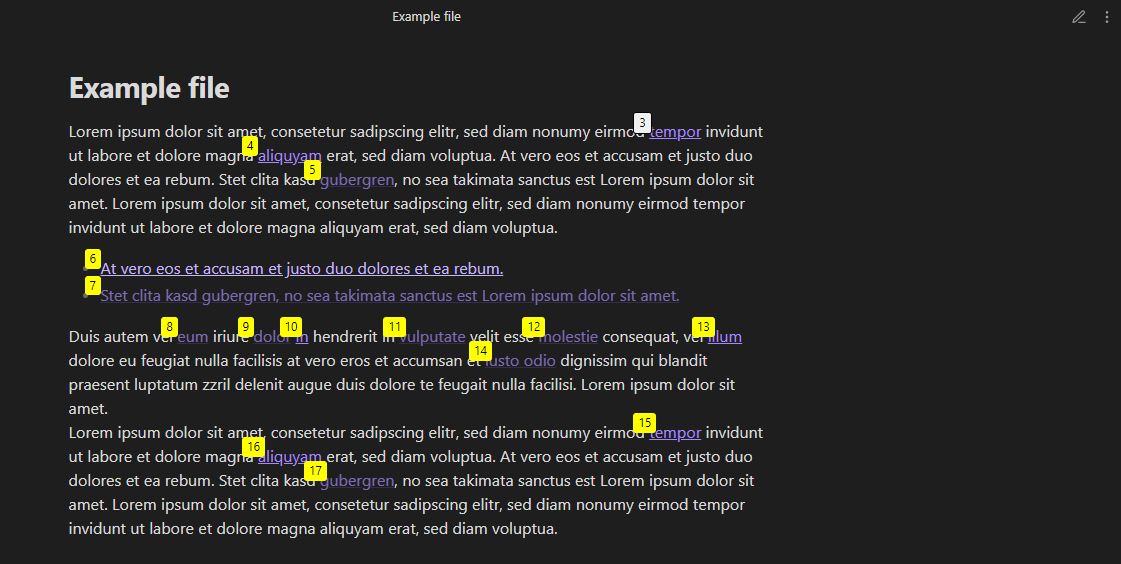
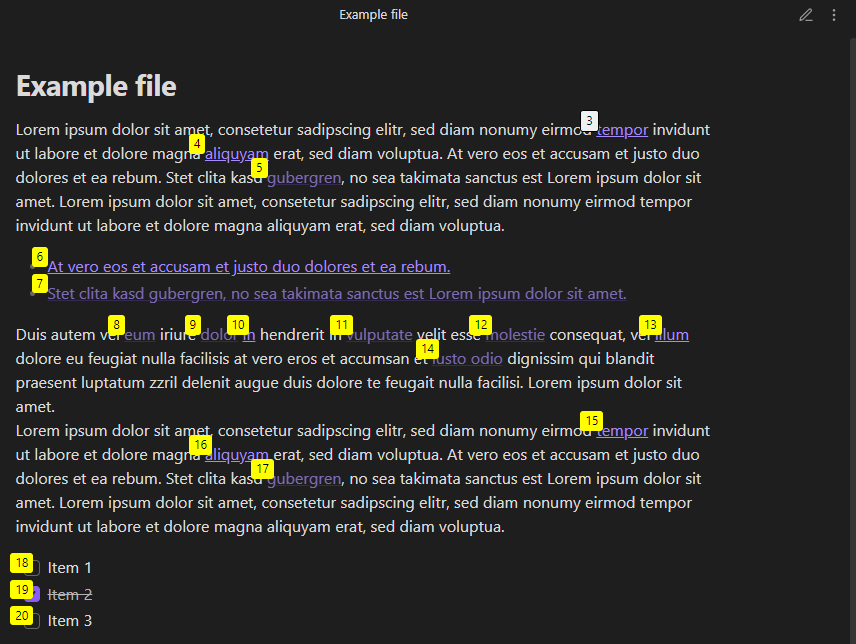
feat: buttons and checkboxes

Changed region(s): [[0.0, 0.0904, 0.8505, 0.9947], [0.3645, 0.0, 0.486, 0.0603], [0.9416, 0.0, 0.972, 0.0603]]

diff --git a/src/main.ts b/src/main.ts
@@ -105,7 +105,6 @@ export default class NavigatorPlugin extends Plugin {
       const activeElement = activeLeaf?.view.containerEl;
       const activeScrollableElement = activeElement.querySelector('.markdown-preview-view.markdown-rendered.node-insert-event.is-readable-line-width.allow-fold-headings.show-indentation-guide.allow-fold-lists.show-properties');
       return activeScrollableElement;
-        
     }
 
 
@@ -162,9 +161,9 @@ export default class NavigatorPlugin extends Plugin {
     private getFilteredLinks() {
       this.resetLinkMap();
 
-      let links = Array.from(document.querySelectorAll('a'));
+      let links = Array.from(document.querySelectorAll('a, button, input'));
       const filteredLinks = links.filter(link => 
-        link.classList.contains('internal-link') || link.classList.contains('external-link')
+        link.classList.contains('internal-link') || link.classList.contains('external-link') || link.classList.contains('task-list-item-checkbox') || link.classList.contains('button-default')
       ); 
       if (this.filterInput) {
         const inputFilteredLinks = filteredLinks.filter(link => 
@@ -177,10 +176,9 @@ export default class NavigatorPlugin extends Plugin {
 
 
     private removeOverlays() {
-        document.querySelectorAll('.vimium-like-link-overlay').forEach(el => el.remove());
-        document.querySelectorAll('.default-link-overlay').forEach(el => el.remove());
+        document.querySelectorAll('.vimium-like-link-overlay').forEach(el => el.remove()); 
+        document.querySelectorAll('.default-link-overlay').forEach(el => el.remove()); 
     }
-
 
 
 
